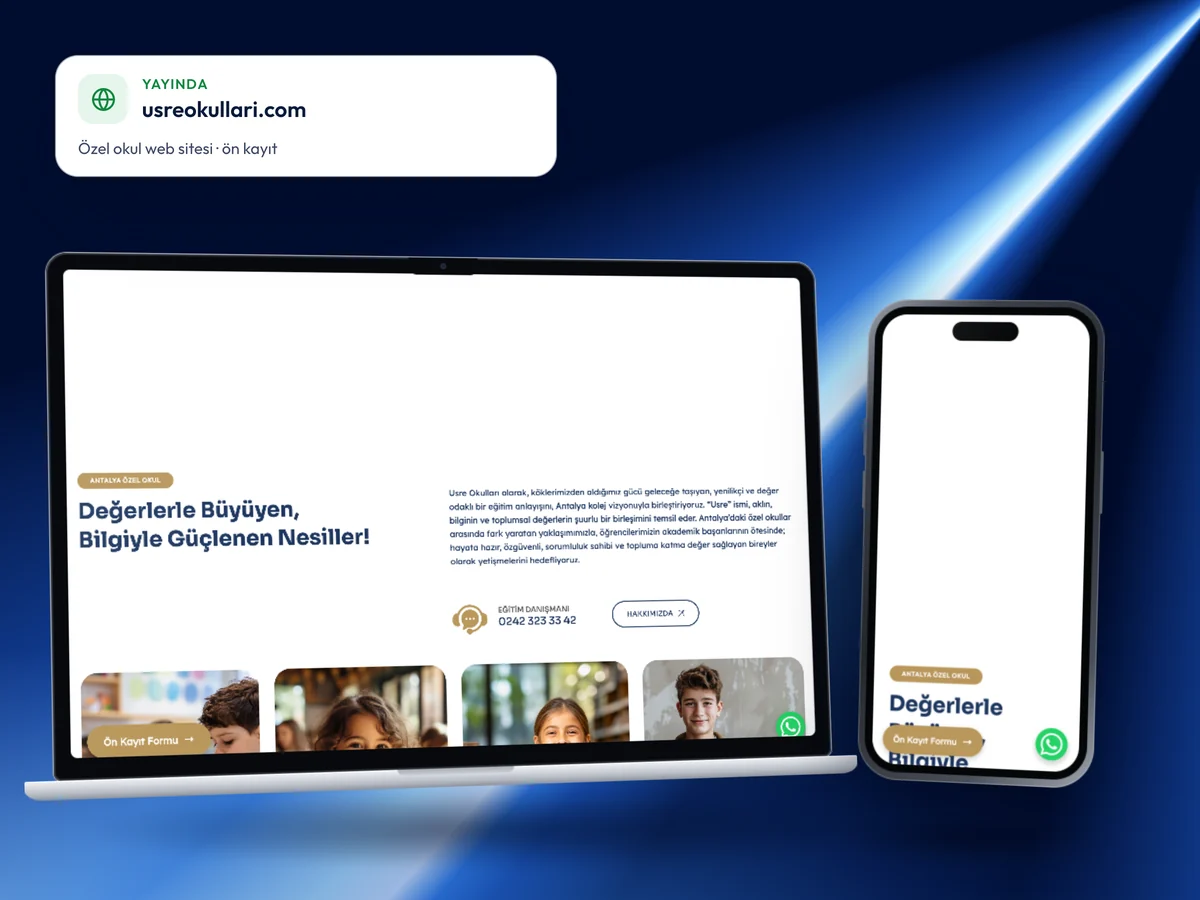
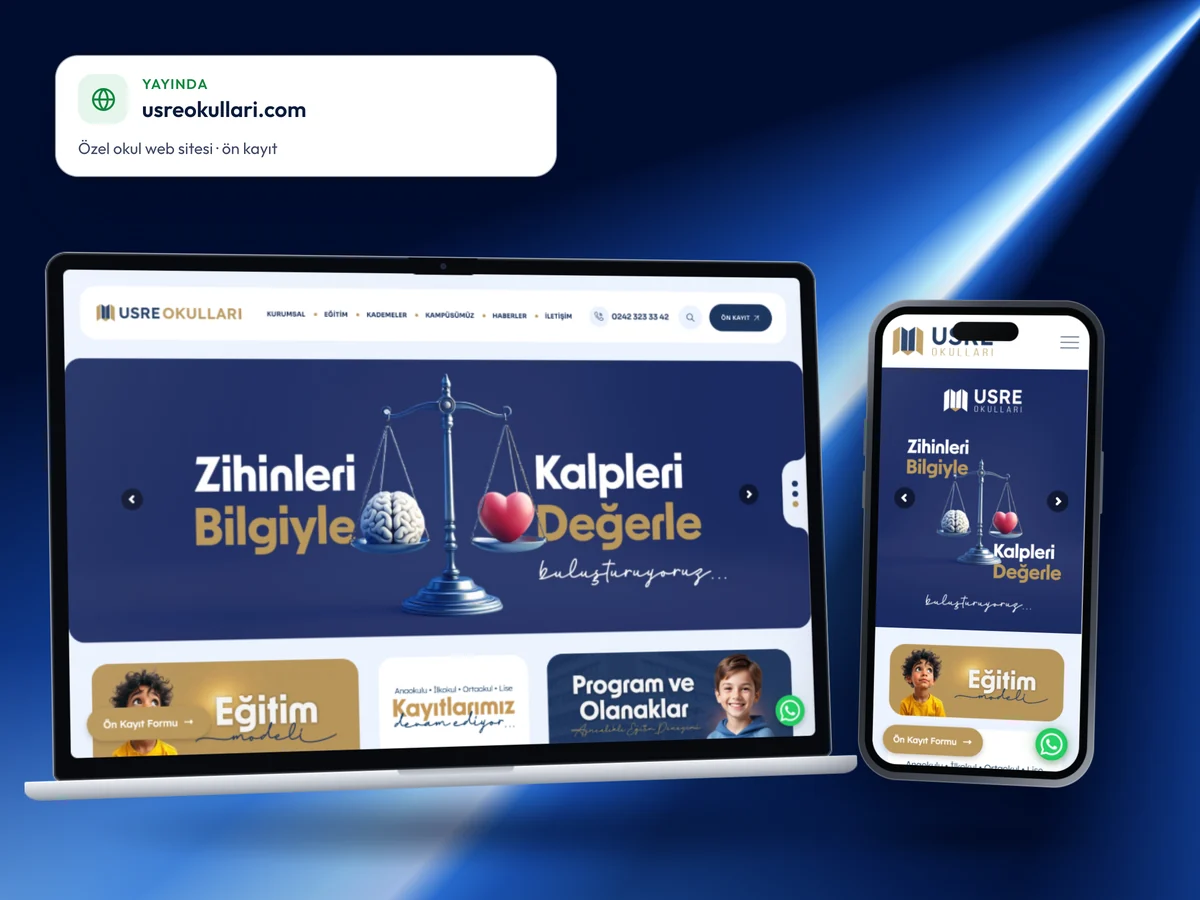
Web Tasarım: usreokullari.com karosu düzeltildi
- Kaynak ekran görüntüsü açılış slaytı (Slider Revolution) başlamadan
  alınmıştı; üst kısım boştu. Masaüstü ve mobil sayfanın en üstünden,
  slayt yüklendikten sonra yeniden çekildi
- galeriGorseliYenile: galerideki tek görseli yeni adla (önbellek) yükleyip
  sırasıyla bulduğu eskisinin yerine koyar, eski medyayı siler
- Veri geçişi 20261016_070000_web_usre_duzeltme (canlı kopyada test edildi)

diff --git a/src/migrations/data/katalog.ts b/src/migrations/data/katalog.ts
@@ -173,3 +173,22 @@ export async function katalogGalerileri(payload: Payload, req: PayloadRequest, s
   const ctx: Ctx = { payload, req, log: (m) => payload.logger.info(`[katalog] ${m}`) }
   await serviceGalleries(ctx, slugs)
 }
+
+/* Galerideki tek bir görseli yeni adla yükleyip yerine koyar (önbellek eskisini sunmasın); eski medya silinir */
+export async function galeriGorseliYenile(payload: Payload, req: PayloadRequest, slug: string, key: string, prefix: string) {
+  const ctx: Ctx = { payload, req, log: (m) => payload.logger.info(`[katalog] ${m}`) }
+  const s = await one(ctx, 'services', { slug: { equals: slug } }, true)
+  if (!s) return
+  const idx = ['hero', 'kapak', '1', '2', '3', '4', '5', '6'].indexOf(key)
+  const alt = key === 'hero' ? HERO_ALTS[slug] : GALLERY_ALTS[slug]?.[idx - 2]
+  const id = await upload(ctx, `services/v4/${slug}-${key}.webp`, alt ?? `${String(s.title)}: ${key}`, 'Hizmetler', prefix)
+  if (!id) return
+  /* Eski görsel adıyla değil galerideki sırasıyla bulunur (hero, kapak, 1-6): ad çakışmasında -1 eki alabilir */
+  const items = ((s.gallery as { image: number | { id: number } }[]) ?? []).map((g) => (typeof g.image === 'object' ? g.image.id : g.image))
+  const oldId = items[idx]
+  if (oldId === undefined || oldId === id) return
+  const gallery = items.map((gid, i) => ({ image: i === idx ? id : gid }))
+  await ctx.payload.update({ collection: 'services', id: s.id, data: { gallery, _status: 'published' } as never, req: ctx.req, ...ok })
+  await ctx.payload.delete({ collection: 'media', id: oldId, req: ctx.req, ...ok }).catch(() => null)
+  ctx.log(`${slug}-${key}: yenilendi (${prefix})`)
+}

diff --git a/src/migrations/index.ts b/src/migrations/index.ts
@@ -24,6 +24,7 @@ import * as migration_20261016_030000_seo_galeri_veri from './20261016_030000_se
 import * as migration_20261016_040000_eticaret_galeri_veri from './20261016_040000_eticaret_galeri_veri';
 import * as migration_20261016_050000_tescil_galeri_veri from './20261016_050000_tescil_galeri_veri';
 import * as migration_20261016_060000_mobil_galeri_veri from './20261016_060000_mobil_galeri_veri';
+import * as migration_20261016_070000_web_usre_duzeltme from './20261016_070000_web_usre_duzeltme';
 
 export const migrations = [
   {
@@ -155,5 +156,10 @@ export const migrations = [
     up: migration_20261016_060000_mobil_galeri_veri.up,
     down: migration_20261016_060000_mobil_galeri_veri.down,
     name: '20261016_060000_mobil_galeri_veri',
+  },
+  {
+    up: migration_20261016_070000_web_usre_duzeltme.up,
+    down: migration_20261016_070000_web_usre_duzeltme.down,
+    name: '20261016_070000_web_usre_duzeltme',
   },
 ];

diff --git a/src/migrations/20261016_070000_web_usre_duzeltme.ts b/src/migrations/20261016_070000_web_usre_duzeltme.ts
@@ -1,0 +1,11 @@
+import { MigrateUpArgs } from '@payloadcms/db-postgres'
+import { galeriGorseliYenile } from './data/katalog'
+
+/** Web Tasarım galerisi: usreokullari.com karosu yeniden çekildi (açılış slaytı boş görünüyordu). Şema değişikliği yok. */
+export async function up({ payload, req }: MigrateUpArgs): Promise<void> {
+  await galeriGorseliYenile(payload, req, 'web-tasarim', '5', 'gercek2-')
+}
+
+export async function down(): Promise<void> {
+  /* İçerik güncellemesi geri alınmaz */
+}
